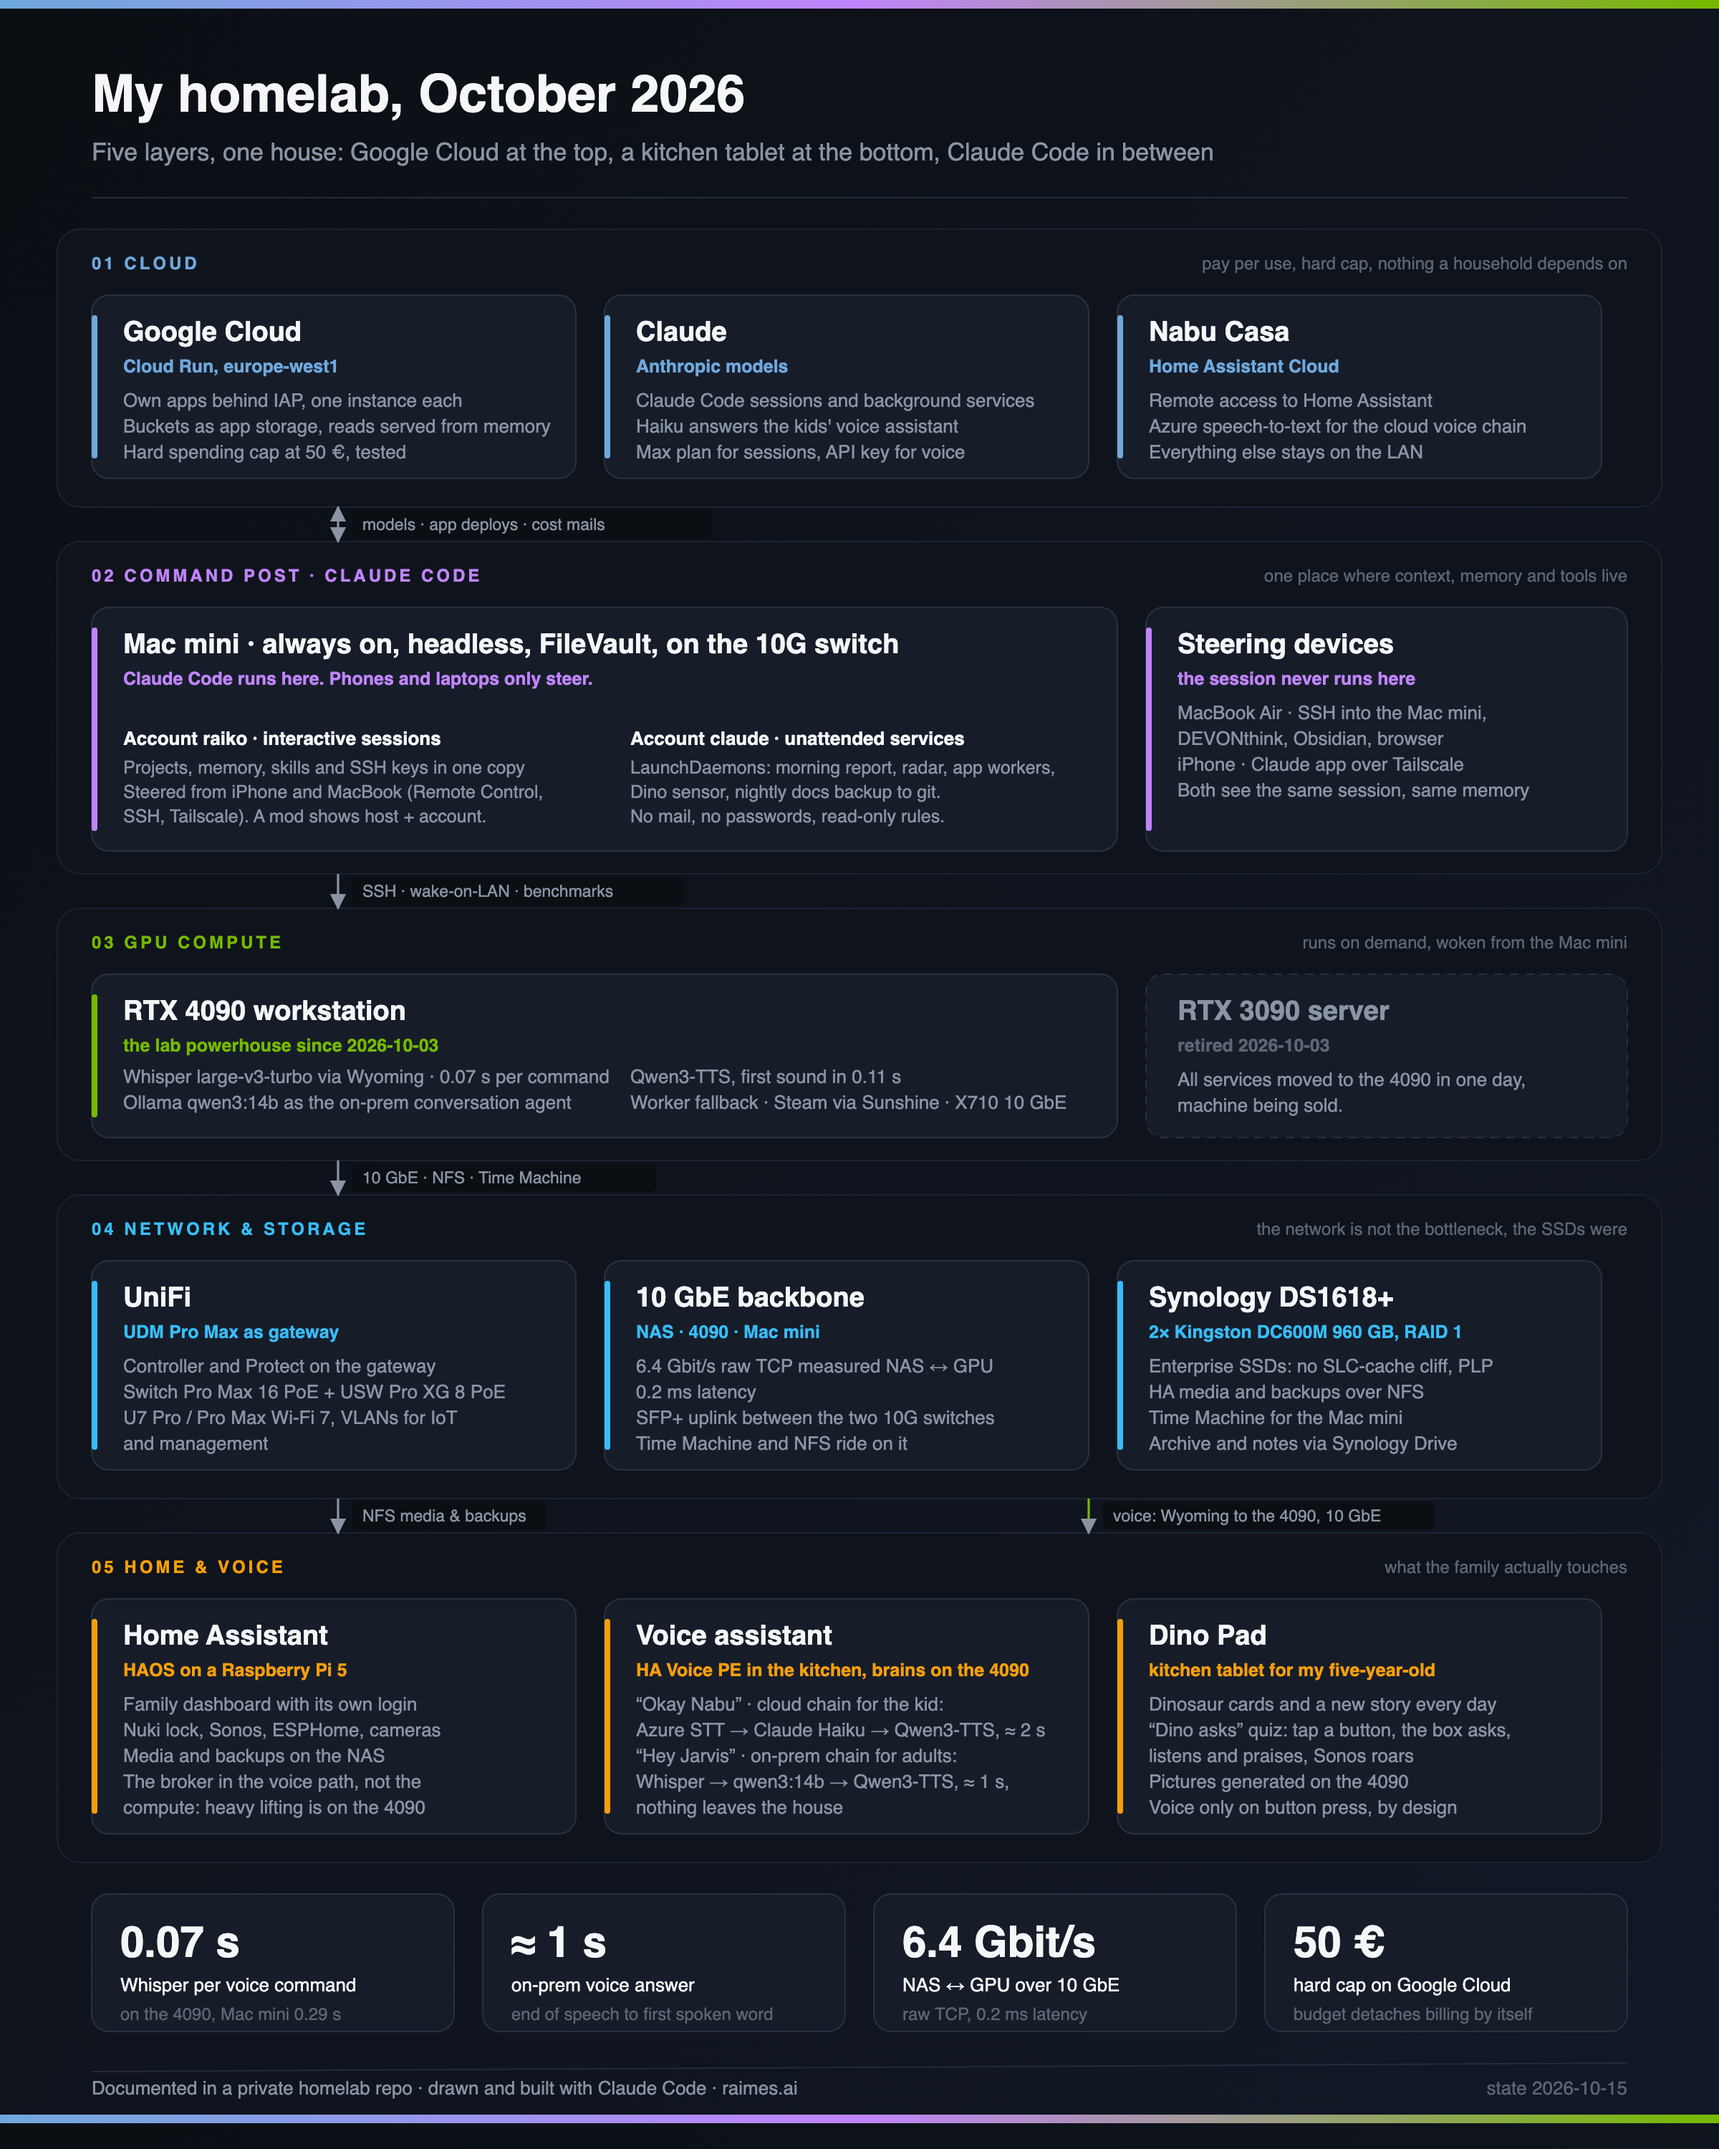
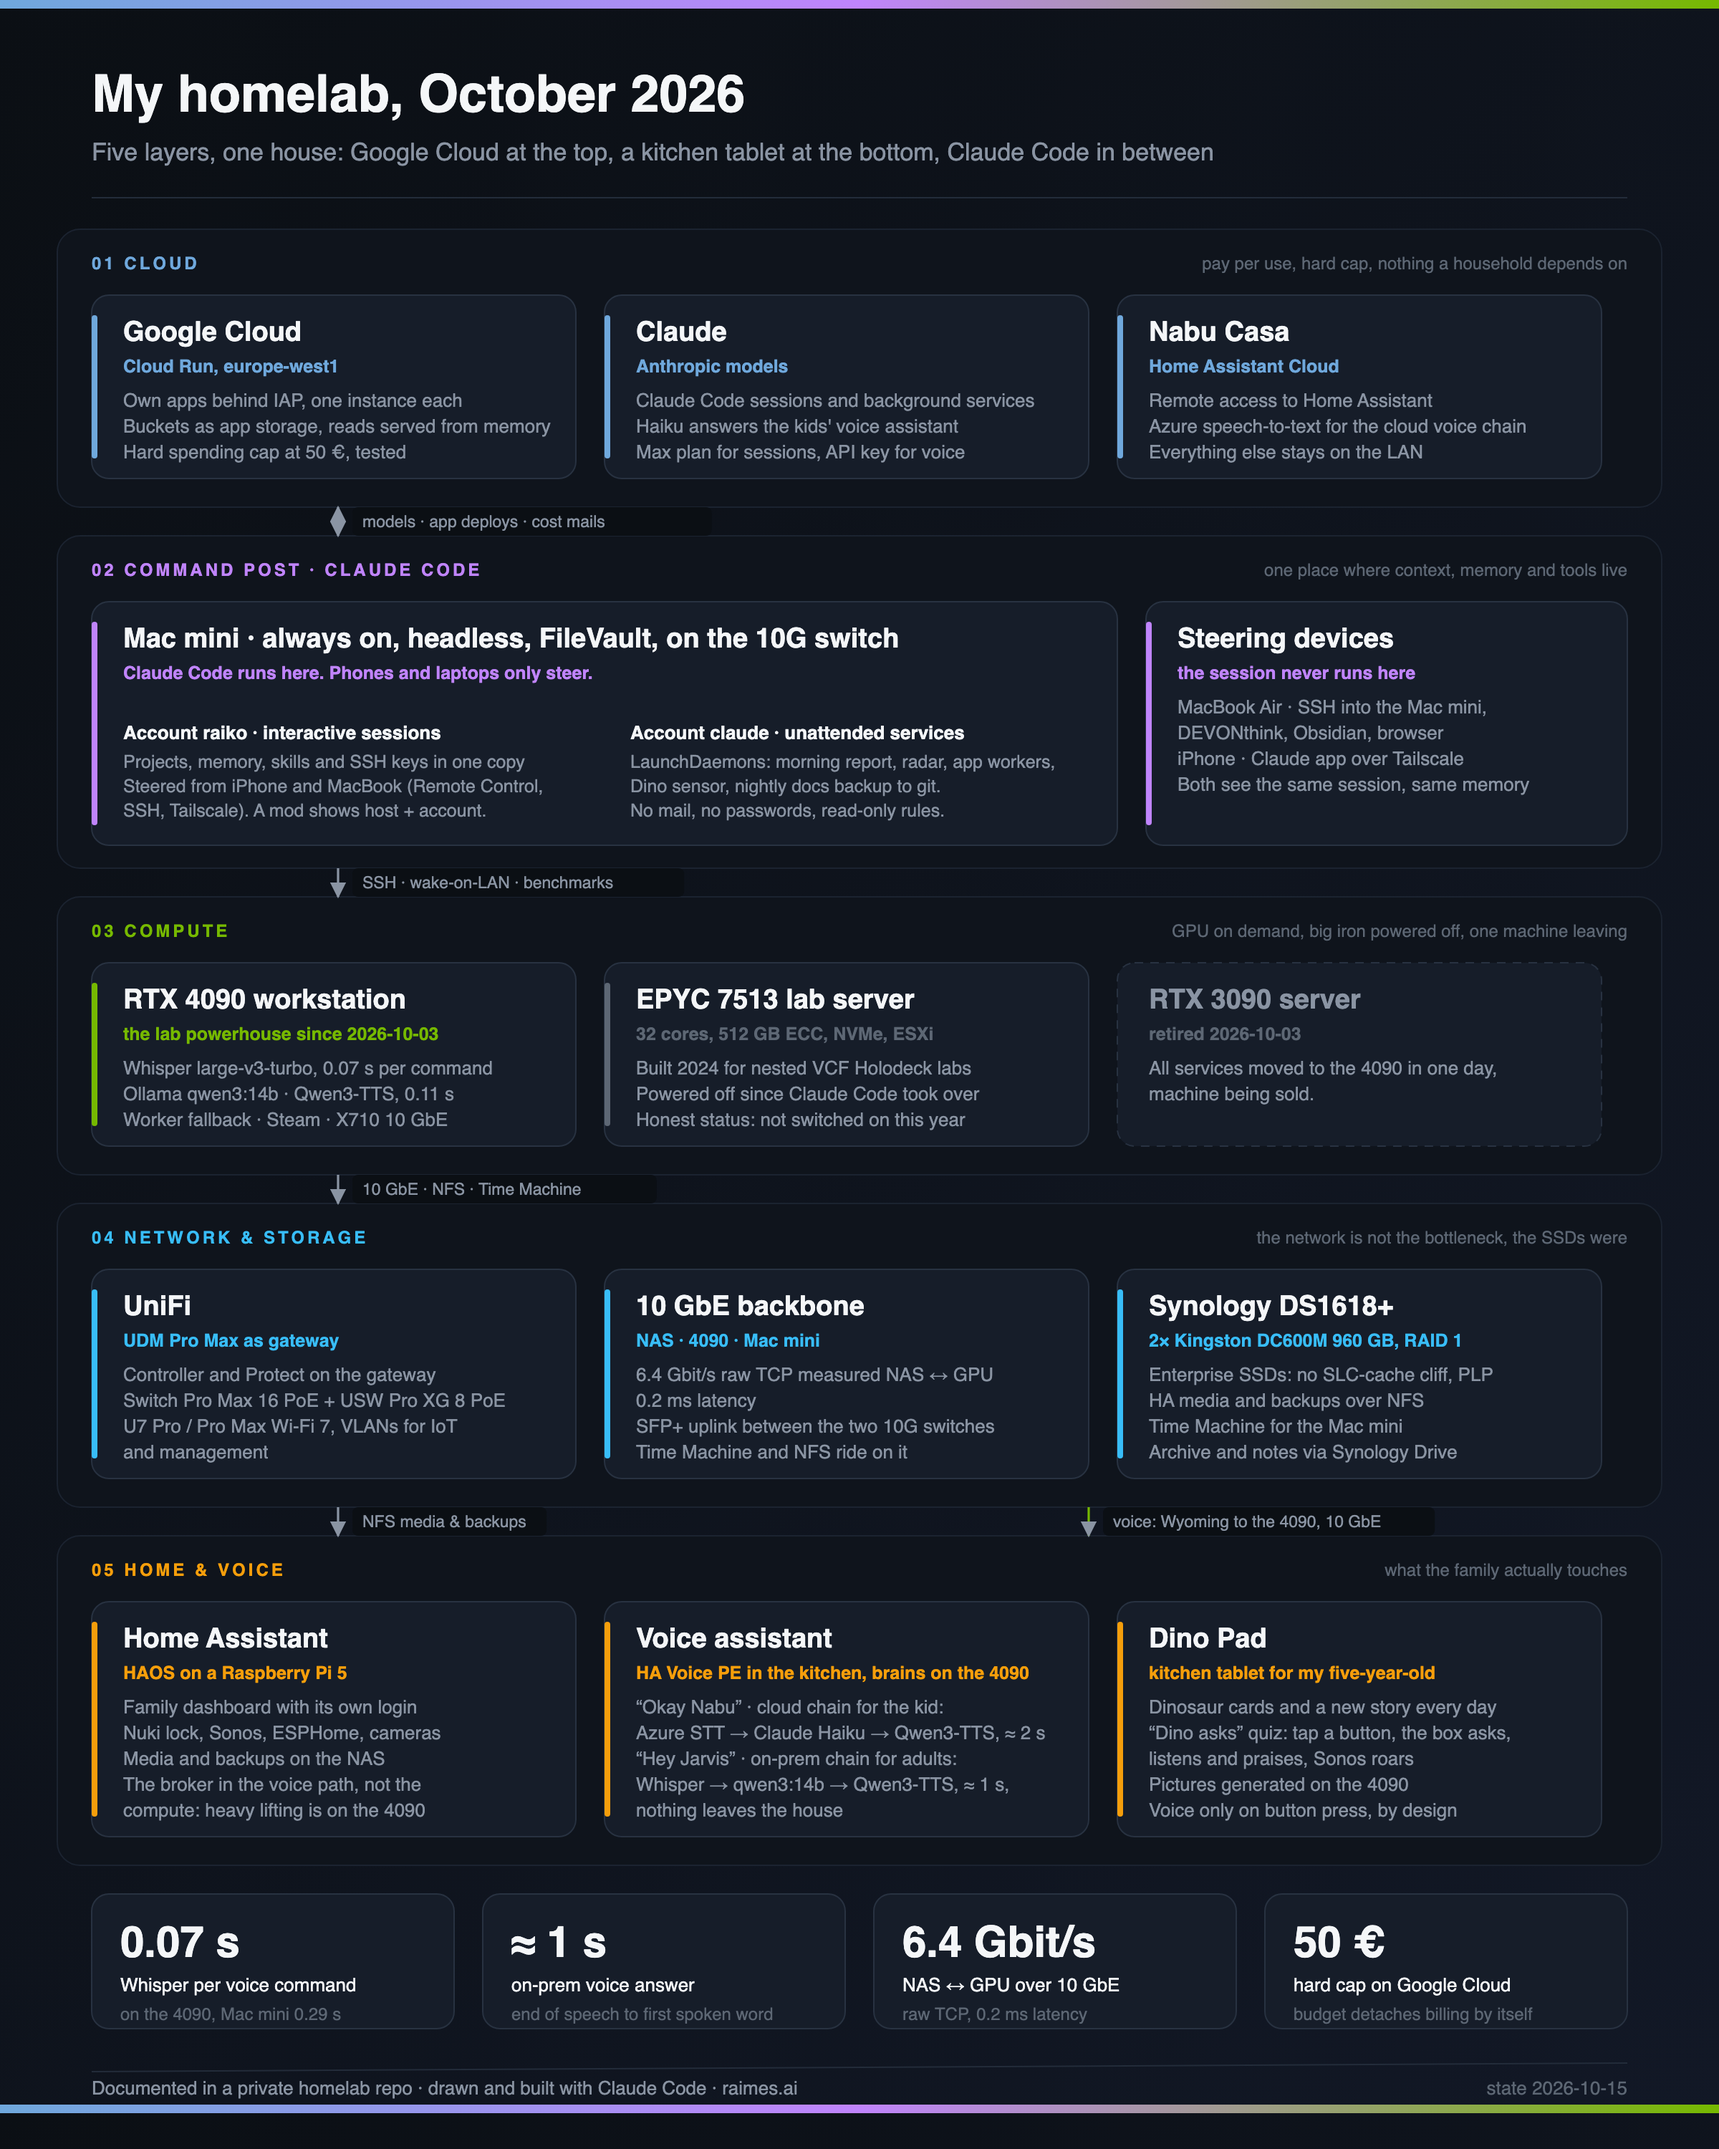
Post: add the EPYC lab server to the compute layer, powered off since Claude Code

diff --git a/content/posts/my-homelab-in-five-layers.md b/content/posts/my-homelab-in-five-layers.md
@@ -34,7 +34,7 @@ Three things, each in its own layer.
 
 **One always-on node holds the context.** The Mac mini became the command post. Claude Code runs there, headless, encrypted disk, on the 10 Gbit switch. Two accounts split the roles. One account runs the interactive sessions with full context: projects, memory, skills, SSH keys to every other machine. The other account runs the unattended jobs as LaunchDaemons: morning report, a news radar, the workers for the two cloud apps, a sensor for the kitchen tablet, a nightly git backup of all documentation. That account has no mail, no passwords and read-only rules. The MacBook and the iPhone only steer. The session never leaves the Mini, and a small mod above the prompt shows the host name and account so I can see where I am.
 
-**Every other layer got exactly one job.** The RTX 4090 workstation does the heavy lifting for voice and images and runs only on demand, woken from the Mini. Whisper transcribes a spoken command in 0.07 seconds, a local 14B model answers, a local text-to-speech engine speaks. The old 3090 that used to share these jobs is retired and for sale. The NAS got a second volume on two datacenter SSDs with power-loss protection and no cache cliff. Home Assistant stays on a Raspberry Pi. It is the broker in the voice path, not the compute, so it never needed more hardware.
+**Every other layer got exactly one job.** The RTX 4090 workstation does the heavy lifting for voice and images and runs only on demand, woken from the Mini. Whisper transcribes a spoken command in 0.07 seconds, a local 14B model answers, a local text-to-speech engine speaks. The old 3090 that used to share these jobs is retired and for sale. The third machine in that layer is the honest one: a 32-core EPYC server with 512 GB of ECC memory and local NVMe, built in 2024 for nested VCF Holodeck deployments ([the build story is on Medium](https://medium.com/@rmesterheide/why-i-switched-from-intel-to-amd-epyc-for-my-homelab-9cc182dfe230)). It has not been switched on since Claude Code took over the lab. It stays in the picture because the picture is supposed to show what is there, not what I am proud of. The NAS got a second volume on two datacenter SSDs with power-loss protection and no cache cliff. Home Assistant stays on a Raspberry Pi. It is the broker in the voice path, not the compute, so it never needed more hardware.
 
 **The cloud got a cap and a cache.** The apps now serve reads from memory and write through only on changes. Bucket operations fell from about 5,600 per two minutes to under ten. A budget function detaches billing from the project at 50 € and was tested with a fake alert before I trusted it. Nothing in the house depends on the cloud layer, and I like it that way.
 
@@ -69,6 +69,6 @@ Expected result: a 2400 × 3000 px PNG, crisp text, no scrollbar, the same file 
 
 Buy the datacenter SSDs first and the 10 Gbit gear second. The order I chose produced a month of benchmarks proving that the fast network could not help.
 
-Decide the always-on node before buying GPUs. The two workstations were bought as the future home of everything. In the final picture they do one job each, and one of them is leaving.
+Decide the always-on node before buying GPUs. The two workstations were bought as the future home of everything. In the final picture they do one job each, one of them is leaving, and the biggest machine in the house is powered off.
 
 And draw the card earlier. Drawn after the move, the picture makes the one-job-per-layer rule look obvious. Drawn before, it would have saved the detour through two GPU machines.

diff --git a/CLAUDE.md b/CLAUDE.md
@@ -18,7 +18,7 @@ Personal blog, Hugo + PaperMod, deployed to GitHub Pages. Posts are English.
 
 ## Drafts (2026-10-15)
 - `content/posts/private-ai-services-3-on-vcf-9-1-1.md` (published 2026-10-15, https://raimes.ai/posts/private-ai-services-3-on-vcf-9-1-1/): recap of the Explore on Tour session CLOB1084 (14.10.2026), TL;DR plus five highlights of PAIS 3.0 on VCF 9.1.1. Sources: Raiko's speaker notes and `../CLOB1084/notebooklm/00`-`02`, cross-checked against the Broadcom GA post of 03.09.2026. Only content that was spoken on stage or is in public docs; no co-speaker names, no roadmap beyond what Broadcom announced publicly. "Not in 9.1.1" section removed before publishing on Raiko's request. About 1,250 words. Still open: re-check the PAIS 3.0 release notes on TechDocs for the two known issues and the provider list (the TechDocs URL could not be fetched from here).
-- `content/posts/my-homelab-in-five-layers.md` (published 2026-10-15, https://raimes.ai/posts/my-homelab-in-five-layers/): the five-layer architecture overview with the card from `../homelab-architecture-card-2026-10.py` (SVG + PNG in `static/images/homelab-october-2026/`, rebuild: run the script, then the headless-Chrome command at its end). Facts from `../homelab/` (README, command-post.md, benchmarks, google-cloud). Snippet: the headless-Chrome render command plus the margin-free HTML wrapper. About 1,100 words. LinkedIn text in `../linkedin-post-homelab-architecture-2026-10.md`.
+- `content/posts/my-homelab-in-five-layers.md` (published 2026-10-15, https://raimes.ai/posts/my-homelab-in-five-layers/): the five-layer architecture overview with the card from `../homelab-architecture-card-2026-10.py` (SVG + PNG in `static/images/homelab-october-2026/`, rebuild: run the script, then the headless-Chrome command at its end). Facts from `../homelab/` (README, command-post.md, benchmarks, google-cloud). Snippet: the headless-Chrome render command plus the margin-free HTML wrapper. Compute layer shows three machines: 4090, EPYC 7513 (512 GB, VCF Holodeck, powered off since Claude Code, per Raiko 2026-10-15), 3090 retired. About 1,150 words. LinkedIn text in `../linkedin-post-homelab-architecture-2026-10.md`.
 
 ## Conventions
 - Editorial plan and post backlog: `EDITORIAL.md`. One post per week at most, drafts stay `draft: true` until Raiko says publish.
